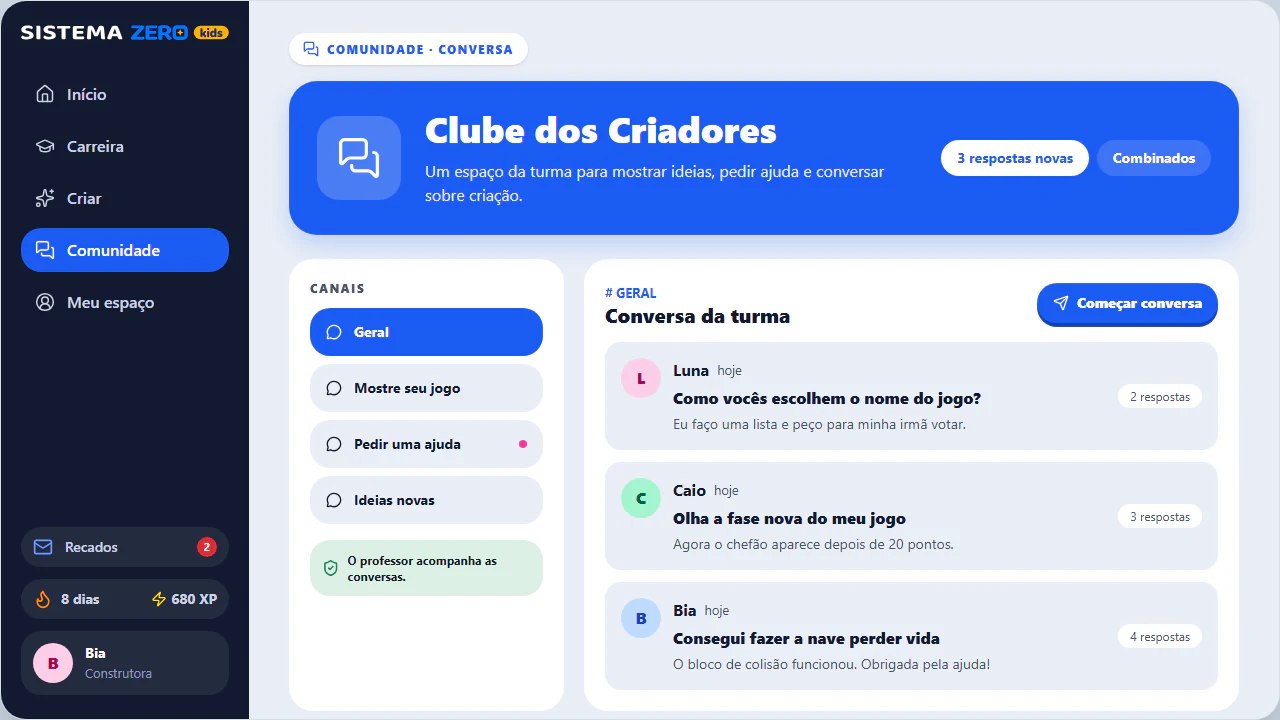
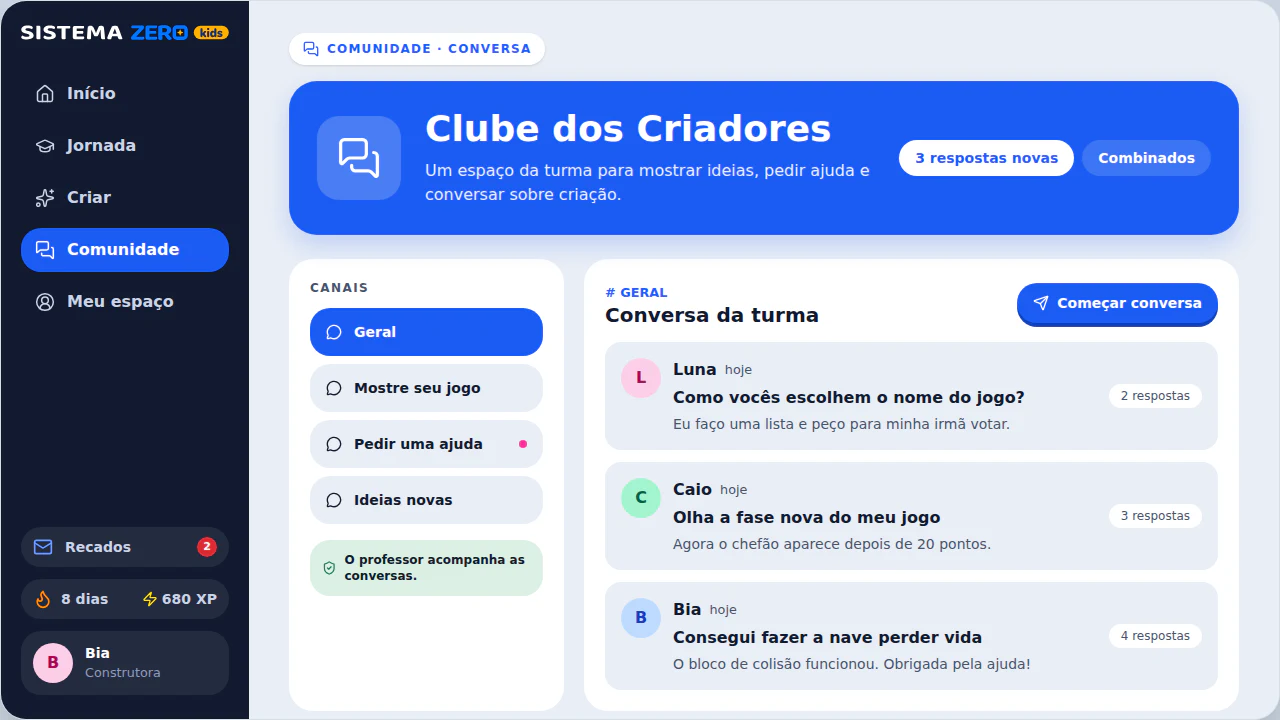
feat(funnel): trocar Carreira do Criador por Jornada do Criador na oferta
Claude-Session: https://claude.ai/code/session_01B4rxF8UdDuiHxsPwj92sKs

diff --git a/packages/community-kids/tests/visual/comunidade-preview.tsx b/packages/community-kids/tests/visual/comunidade-preview.tsx
@@ -72,14 +72,14 @@ function getScreen(): Screen {
 
 const NAV = [
   { label: 'Início', icon: Home },
-  { label: 'Carreira', icon: GraduationCap },
+  { label: 'Jornada', icon: GraduationCap },
   { label: 'Criar', icon: Sparkles },
   { label: 'Comunidade', icon: MessagesSquare },
   { label: 'Meu espaço', icon: CircleUserRound },
 ] as const
 
 function activeSection(screen: Screen): (typeof NAV)[number]['label'] {
-  if (screen === 'career' || screen === 'lesson') return 'Carreira'
+  if (screen === 'career' || screen === 'lesson') return 'Jornada'
   if (screen === 'workshop') return 'Criar'
   if (screen === 'mural' || screen === 'club' || screen === 'messages') return 'Comunidade'
   return 'Meu espaço'
@@ -182,9 +182,9 @@ function CareerScreen() {
     <CaptureShell screen="career">
       <PageFrame>
         <div className="text-center">
-          <h1 className="sz-display text-[2.35rem]">Cursos da Carreira de Criador</h1>
+          <h1 className="sz-display text-[2.35rem]">Cursos da Jornada do Criador</h1>
           <p className="mt-2 font-medium text-muted-foreground">
-            Sua jornada de Faísca a Lenda. Cada aventura concluída abre um novo passo.
+            De Faísca a Lenda. Cada aventura concluída abre um novo passo.
           </p>
           <span className="mt-4 inline-flex items-center gap-2 rounded-full bg-(--sz-kids-amarelo) px-4 py-2 font-extrabold text-sm text-(--sz-kids-tinta)">
             <Blocks className="size-4" /> Você é Construtora
@@ -206,7 +206,7 @@ function CareerScreen() {
                   }`}
                 >
                   <img
-                    src={`/carreira/${level.slug}.webp`}
+                    src={`/jornada/${level.slug}.webp`}
                     alt=""
                     className={`h-[70px] w-[70px] object-contain ${level.state === 'locked' ? 'grayscale opacity-65' : ''}`}
                   />
@@ -351,7 +351,7 @@ function WorkshopScreen() {
           eyebrow="Sua oficina de criação"
           icon={Palette}
           title="Uma ideia. Muitas formas de criar."
-          subtitle="As quatro ferramentas estão incluídas. Bia abre cada oficina quando conquista o posto correspondente na Carreira do Criador."
+          subtitle="As quatro ferramentas estão incluídas. Bia abre cada oficina quando conquista o posto correspondente na Jornada do Criador."
         />
         <div className="mt-5 rounded-2xl bg-(--band-menta) px-5 py-4 font-bold text-sm">
           <span className="inline-flex items-center gap-2">
@@ -711,7 +711,7 @@ function SpaceScreen() {
           className="mt-5"
           actions={
             <span className="rounded-full bg-white px-4 py-2 font-bold text-primary text-sm">
-              Ver carreira
+              Ver jornada
             </span>
           }
           footer={
@@ -778,7 +778,7 @@ function SpaceScreen() {
               <div>
                 <strong className="block">Meu quarto</strong>
                 <small className="text-muted-foreground">
-                  Troféus, móveis e lembranças da carreira.
+                  Troféus, móveis e lembranças da jornada.
                 </small>
               </div>
               <ChevronRight className="ml-auto size-5 text-muted-foreground" />

diff --git a/packages/funnel/src/funnels/comunidade-dos-criadores/content.ts b/packages/funnel/src/funnels/comunidade-dos-criadores/content.ts
@@ -18,7 +18,7 @@ export const COMUNIDADE_PRODUTO: FunnelCopy = {
 export const COMUNIDADE_LANDING: FunnelLanding = {
   h1: 'Seu filho está crescendo em um mundo tecnológico. Na Comunidade, ele aprende a transformar ideias em jogos e projetos próprios.',
   subtitulo:
-    'Uma jornada online com projetos guiados, ferramentas próprias, acompanhamento de professor e uma Carreira do Criador que mostra o próximo passo.',
+    'Um caminho online com projetos guiados, ferramentas próprias, acompanhamento de professor e a Jornada do Criador, que mostra o próximo passo.',
   tempo: '',
 }
 
@@ -35,10 +35,10 @@ export const COMUNIDADE_OBRIGADO: FunnelObrigado = {
   intro: 'A Comunidade já está pronta para receber o primeiro perfil da sua família.',
   entrega: [
     'Desafio do Primeiro Jogo e todos os cursos da plataforma',
-    'Estúdio, Pinta, Pensa e Molda, liberados conforme a Carreira do Criador',
+    'Estúdio, Pinta, Pensa e Molda, liberados conforme a Jornada do Criador',
     'Clube dos Criadores e Mural para publicar e compartilhar os jogos',
     'Acompanhamento do professor pelas atividades e pelos Recados',
-    'Carreira do Criador, desafios, conquistas e Mundo do Criador',
+    'Jornada do Criador, desafios, conquistas e Mundo do Criador',
     'Até 2 perfis de criança, cada um com seu próprio progresso',
   ],
   passos: [
@@ -53,9 +53,9 @@ export const COMUNIDADE_OBRIGADO: FunnelObrigado = {
         'Já dentro da plataforma, crie o perfil do seu filho. A assinatura permite até 2 perfis de criança na mesma conta, cada um com seu próprio progresso.',
     },
     {
-      titulo: 'Mostre a Carreira do Criador',
+      titulo: 'Mostre a Jornada do Criador',
       texto:
-        'Abra a plataforma junto com seu filho, veja o posto inicial e entre no primeiro curso liberado. A carreira vai mostrar o que vem depois.',
+        'Abra a plataforma junto com seu filho, veja o posto inicial e entre no primeiro curso liberado. A jornada vai mostrar o que vem depois.',
     },
     {
       titulo: 'Acompanhe pela área do responsável',

diff --git a/packages/funnel/tests/unit/comunidade-offer-copy.test.ts b/packages/funnel/tests/unit/comunidade-offer-copy.test.ts
@@ -33,14 +33,14 @@ describe('copy comercial da Comunidade dos Criadores', () => {
 
   test('vende continuidade depois do primeiro jogo', () => {
     expect(offer).toContain('O primeiro jogo é só o começo')
-    expect(offer).toContain('A Comunidade organiza uma jornada')
-    expect(offer).toContain('A Carreira organiza a jornada')
+    expect(offer).toContain('A Comunidade organiza um percurso')
+    expect(offer).toContain('A Jornada organiza o caminho inteiro')
     expect(offer).toContain('O Desafio do Primeiro Jogo')
   })
 
-  test('explica que tudo está incluído e a carreira organiza as liberações', () => {
+  test('explica que tudo está incluído e a jornada organiza as liberações', () => {
     expect(offer).toContain('Toda a plataforma está incluída na assinatura')
-    expect(offer).toContain('A liberação acontece conforme a Carreira do Criador')
+    expect(offer).toContain('A liberação acontece conforme a Jornada do Criador')
     expect(offer).toContain('sem nenhuma compra extra por dentro')
     expect(offer).not.toContain('A assinatura libera a plataforma inteira')
   })
@@ -86,7 +86,7 @@ describe('copy comercial da Comunidade dos Criadores', () => {
 
   test('usa capturas atuais para todos os pilares da experiência', () => {
     for (const filename of [
-      'print-carreira.webp',
+      'print-jornada.webp',
       'print-aula.webp',
       'print-oficina.webp',
       'print-mural.webp',

diff --git a/packages/funnel/src/funnels/comunidade-dos-criadores/index.ts b/packages/funnel/src/funnels/comunidade-dos-criadores/index.ts
@@ -26,7 +26,7 @@ export const COMUNIDADE_DOS_CRIADORES: FunnelDef = {
   byline: 'Helena e Júlio · Sistema Zero',
   seoTitle: 'Comunidade dos Criadores | Tecnologia para criar jogos',
   seoDescription:
-    'Uma assinatura para crianças de 9 a 14 anos criarem e publicarem jogos, com projetos guiados, professor e Carreira do Criador. Comunicação dirigida aos pais.',
+    'Uma assinatura para crianças de 9 a 14 anos criarem e publicarem jogos, com projetos guiados, professor e Jornada do Criador. Comunicação dirigida aos pais.',
   theme: 'kids',
   // Assinatura: sem o disclaimer de acesso vitalício no rodapé.
   lifetimeAccess: false,

diff --git a/packages/funnel/tests/unit/comunidade-funnel.test.ts b/packages/funnel/tests/unit/comunidade-funnel.test.ts
@@ -47,7 +47,7 @@ describe('registro do funil Comunidade dos Criadores', () => {
     expect(o.entrega.join(' ')).toContain('Desafio do Primeiro Jogo')
     expect(o.entrega.join(' ')).toContain('Estúdio, Pinta, Pensa e Molda')
     expect(o.entrega.join(' ')).toContain('Até 2 perfis de criança')
-    expect(o.passos.map((p) => p.titulo)).toContain('Mostre a Carreira do Criador')
+    expect(o.passos.map((p) => p.titulo)).toContain('Mostre a Jornada do Criador')
   })
 
   test('metadados apresentam tecnologia como contexto e criação como possibilidade', () => {

diff --git a/packages/community-kids/tests/visual/capture-comunidade-offer.ts b/packages/community-kids/tests/visual/capture-comunidade-offer.ts
@@ -59,7 +59,7 @@ try {
   page.on('pageerror', (error) => pageErrors.push(error.message))
 
   const captures = [
-    ['career', 'print-carreira.webp'],
+    ['career', 'print-jornada.webp'],
     ['lesson', 'print-aula.webp'],
     ['workshop', 'print-oficina.webp'],
     ['mural', 'print-mural.webp'],

diff --git a/packages/funnel/docs/comunidade-dos-criadores-assets.md b/packages/funnel/docs/comunidade-dos-criadores-assets.md
@@ -11,7 +11,7 @@ asas creme e abdômen amarelo brilhante em todas as novas peças.
 `zappy-fala.webp`, `dede-fala.webp`, `debinha-fala.webp` E os três avatares de depoimento
 `depo-rafael.webp`, `depo-debora.webp`, `depo-andre.webp` (as mesmas crianças do Desafio).
 **A PÁGINA ESTÁ VISUALMENTE COMPLETA (13/07).** As 4 ilustrações (hero, ilustra-dor,
-ilustra-virada, ilustra-vitoria) e os 6 prints (print-estudio/mural/carreira/mundo/clube/recados)
+ilustra-virada, ilustra-vitoria) e os 6 prints (print-estudio/mural/jornada/mundo/clube/recados)
 estão no ar. A foto da família (`autoridade-familia`) fica com o placeholder do Desafio
 (`familia-helena-julio-kids.webp`) por decisão da Helena. Pra TROCAR qualquer imagem depois, salve
 o arquivo novo **com o MESMO nome** em `packages/funnel/public/img/comunidade-dos-criadores/`.
